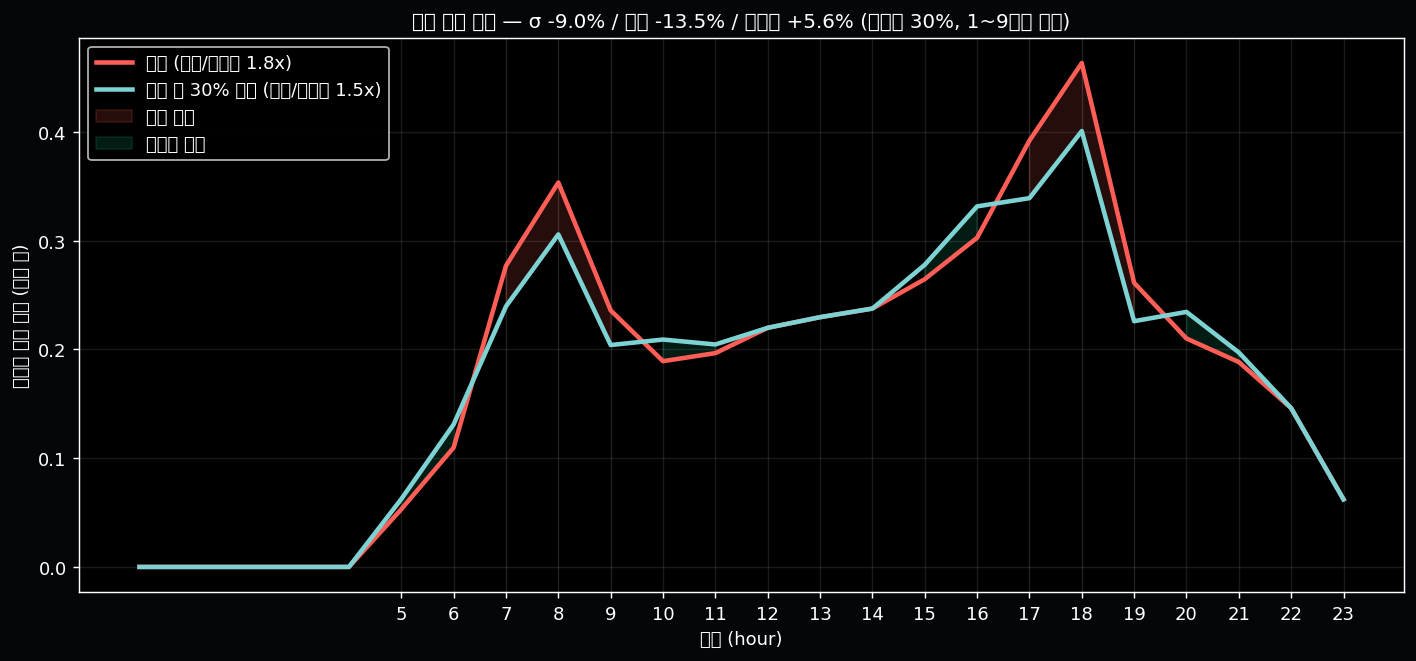
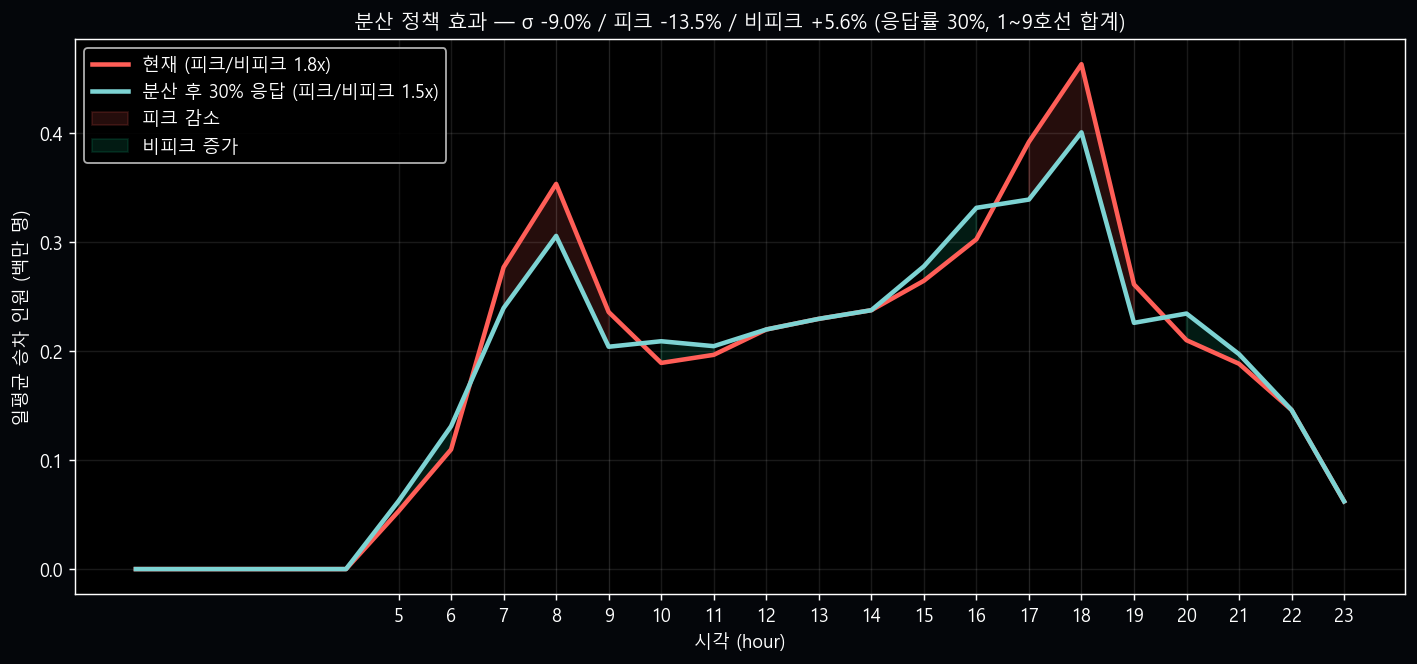
feat: dispersion plot Malgun Gothic 폰트 + OpenAPI 3.0 spec (/api/openapi.yaml)

diff --git a/scripts/eda_dispersion_sim.py b/scripts/eda_dispersion_sim.py
@@ -76,8 +76,20 @@ def main():
     try:
         import pandas as pd
         import matplotlib.pyplot as plt
+        import matplotlib.font_manager as fm
     except ImportError as e:
         raise SystemExit(f"필수 패키지 없음: {e}")
+
+    # 한글 폰트 자동 탐색 (Windows: Malgun Gothic / macOS: AppleGothic / Linux: NanumGothic)
+    candidates = ["Malgun Gothic", "AppleGothic", "NanumGothic", "Noto Sans KR"]
+    available = {f.name for f in fm.fontManager.ttflist}
+    chosen = next((c for c in candidates if c in available), None)
+    if chosen:
+        plt.rcParams["font.family"] = chosen
+        plt.rcParams["axes.unicode_minus"] = False
+        print(f"[font] {chosen} 사용")
+    else:
+        print("[font] 한글 폰트 없음 — DejaVu Sans (한글 박스로 표시될 수 있음)")
 
     df = pd.read_parquet(DATA)
     print(f"[load] {len(df):,}행 / {df['SBWY_ROUT_LN_NM'].nunique()}호선")

diff --git a/src/cv/lite_server.py b/src/cv/lite_server.py
@@ -736,6 +736,8 @@ async def http_health(path, headers):
             "<p>실시간 누적 임팩트 (분산 액션 / krw / 시간대 / 역별)</p>"
             "<h2>GET <code>/api/v1/incidents</code></h2>"
             "<p>사고 누적 + 최근 30 events (응급/이상/분실/무임)</p>"
+            "<h2>GET <code>/api/openapi.yaml</code></h2>"
+            "<p>표준 OpenAPI 3.0 spec — Swagger / Redoc / Postman 임포트 가능</p>"
             "<h2>WebSocket <code>ws://host:8765</code></h2>"
             "<p>impact_log / incident_log / arrival_query / population_query / predict_surge 등</p>"
             "<table><tr><th>Type</th><th>Args</th><th>응답</th></tr>"
@@ -748,6 +750,16 @@ async def http_health(path, headers):
             "</body></html>"
         ).encode("utf-8")
         return (200, [("content-type", "text/html; charset=utf-8")] + CORS_HEADERS, body)
+    if path == "/api/openapi.yaml":
+        try:
+            from pathlib import Path as _P
+            spec = _P(__file__).resolve().parent.parent.parent / "docs" / "openapi.yaml"
+            if spec.exists():
+                body = spec.read_bytes()
+                return (200, [("content-type", "application/x-yaml; charset=utf-8")] + CORS_HEADERS, body)
+        except Exception:
+            pass
+        return (404, [("content-type", "text/plain")] + CORS_HEADERS, b"openapi.yaml not found")
     if path == "/api/v1/roi_curve":
         body = json.dumps({
             "ok": True,